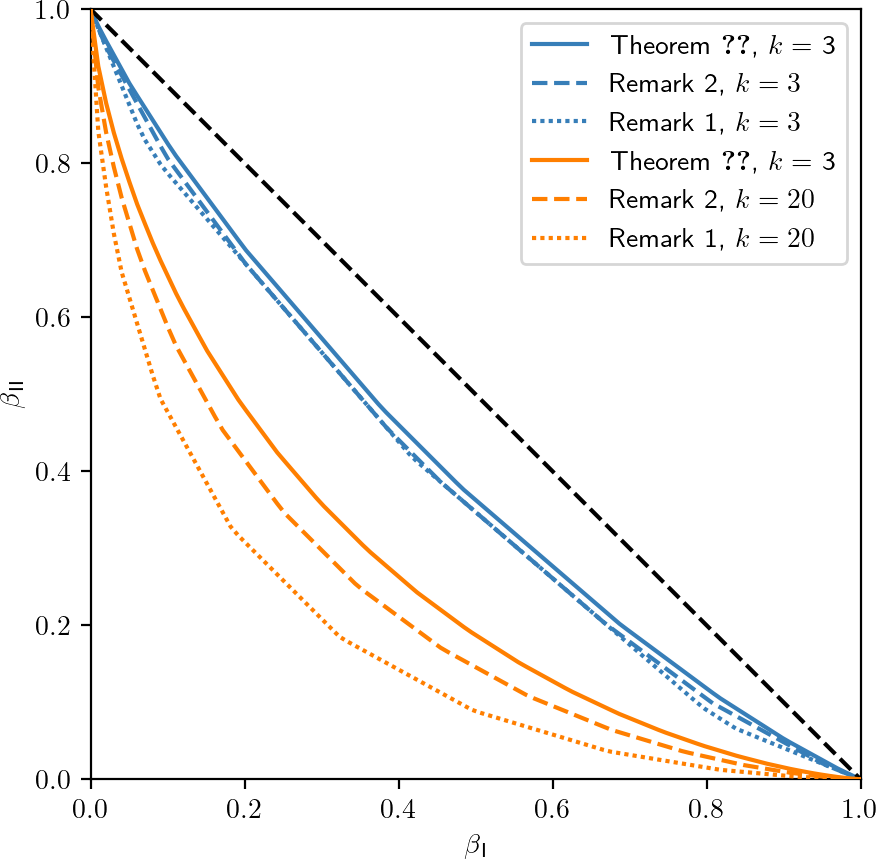
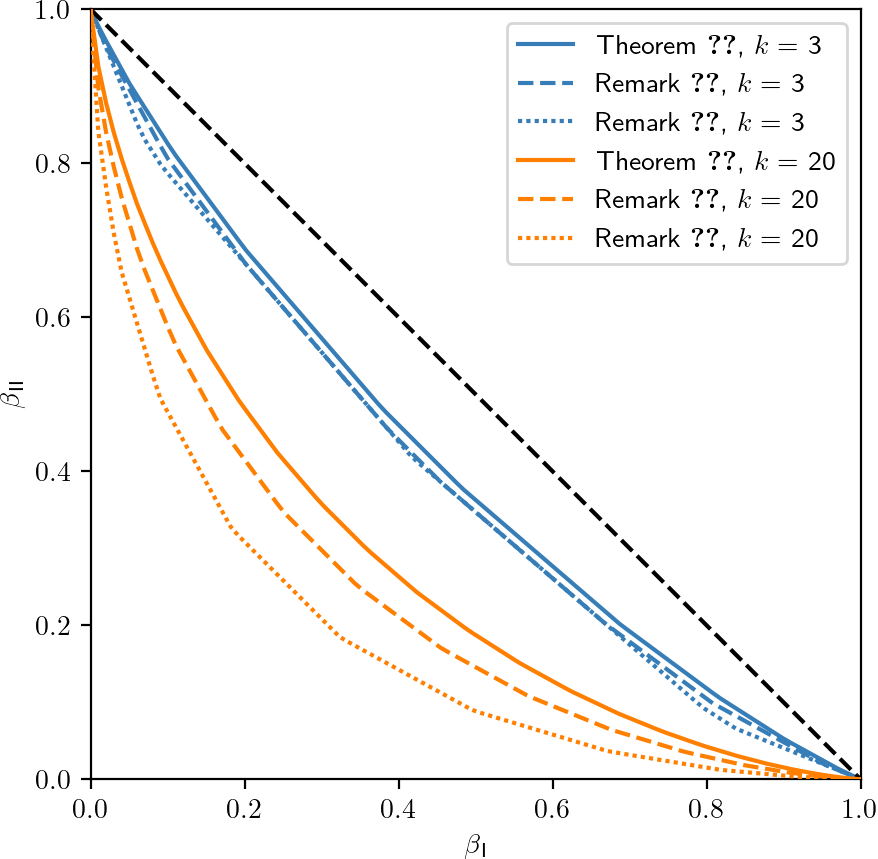
updates to journal branch

diff --git a/src/main.py b/src/main.py
@@ -133,11 +133,11 @@ def main_theorem_comparison_two_ks(eps_1, delta_1, eps_2, delta_2, k1, k2, title
         ],
         [
             r"Theorem \ref{thm:main_gen}, $k = $" + " " + str(k1),
-            f"Remark 2, $k = {k1}$",
-            f"Remark 1, $k = {k1}$",
-            r"Theorem \ref{thm:main_gen}, $k = $" + " " + str(k1),
-            f"Remark 2, $k = {k2}$",
-            f"Remark 1, $k = {k2}$"
+            r"Remark \ref{remark:intersection_single_dp}, $k = $" + " " + str(k1),
+            r"Remark \ref{remark:intersection_dptv}, $k = $" + " " + str(k1),
+            r"Theorem \ref{thm:main_gen}, $k = $" + " " + str(k2),
+            r"Remark \ref{remark:intersection_single_dp}, $k = $" + " " + str(k2),
+            r"Remark \ref{remark:intersection_dptv}, $k = $" + " " + str(k2),
         ],
         [
             "solid",
@@ -1253,12 +1253,12 @@ def composition_improves_as_n_increases(k, eps_ls, delta_ls, title="composition_
 
 
 if __name__ == "__main__":
-    subs_laplace_vs_gaussian_composition_comparison(n=3, k=15, eps=1.2, mu=1, p=0.1)
-    subs_gaussian_compos_composition_approx(n=3, k=10, mu=1, p=0.1)
-    subs_laplace_compos_composition_approx(n=3, k=10, eps=1, p=0.1)
-    mixture_example(alpha_1 = 0.5, eps_1 = 1.3, delta_1 = 0.0, eps_2 = 0.5, delta_2 = 0.2, title="mixture_example")
-    laplace_tradeoff_approx_multip_norms(3, 10, eps=0.7)
-    gaussian_tradeoff_approx_multip_norms(3, 10, mu=0.5)
+    # subs_laplace_vs_gaussian_composition_comparison(n=3, k=15, eps=1.2, mu=1, p=0.1)
+    # subs_gaussian_compos_composition_approx(n=3, k=10, mu=1, p=0.1)
+    # subs_laplace_compos_composition_approx(n=3, k=10, eps=1, p=0.1)
+    # mixture_example(alpha_1 = 0.5, eps_1 = 1.3, delta_1 = 0.0, eps_2 = 0.5, delta_2 = 0.2, title="mixture_example")
+    # laplace_tradeoff_approx_multip_norms(3, 10, eps=0.7)
+    # gaussian_tradeoff_approx_multip_norms(3, 10, mu=0.5)
     main_theorem_comparison_two_ks(eps_1=0.3, delta_1=0.0, eps_2=0.15, delta_2=0.02, k1=3, k2=20,
                                    title="theorem_1_comparison_two_ks_small_region")
 

diff --git a/plots/tikz/theorem_1_comparison_two_ks_small_region.tex b/plots/tikz/theorem_1_comparison_two_ks_small_region.tex
@@ -247,7 +247,7 @@ table {%
 0.98989898989899 0.00410676423980399
 1 0
 };
-\addlegendentry{Remark 2, $k = 3$}
+\addlegendentry{Remark \ref{remark:intersection_single_dp}, $k = $ 3}
 \addplot [semithick, steelblue55126184, dash pattern=on 1pt off 1pt]
 table {%
 0 1
@@ -351,7 +351,7 @@ table {%
 0.98989898989899 0.00410676423980399
 1 0
 };
-\addlegendentry{Remark 1, $k = 3$}
+\addlegendentry{Remark \ref{remark:intersection_dptv}, $k = $ 3}
 \addplot [semithick, black, dashed, forget plot]
 table {%
 0 1
@@ -558,7 +558,7 @@ table {%
 0.98989898989899 0.000716928528029306
 1 0
 };
-\addlegendentry{Theorem \ref{thm:main_gen}, $k = $ 3}
+\addlegendentry{Theorem \ref{thm:main_gen}, $k = $ 20}
 \addplot [semithick, darkorange2551270, dashed]
 table {%
 0 1
@@ -662,7 +662,7 @@ table {%
 0.98989898989899 0.000398962778202505
 1 0
 };
-\addlegendentry{Remark 2, $k = 20$}
+\addlegendentry{Remark \ref{remark:intersection_single_dp}, $k = $ 20}
 \addplot [semithick, darkorange2551270, dash pattern=on 1pt off 1pt]
 table {%
 0 1
@@ -766,7 +766,7 @@ table {%
 0.98989898989899 0.00015249254441255
 1 0
 };
-\addlegendentry{Remark 1, $k = 20$}
+\addlegendentry{Remark \ref{remark:intersection_dptv}, $k = $ 20}
 \end{axis}
 
 \end{tikzpicture}
